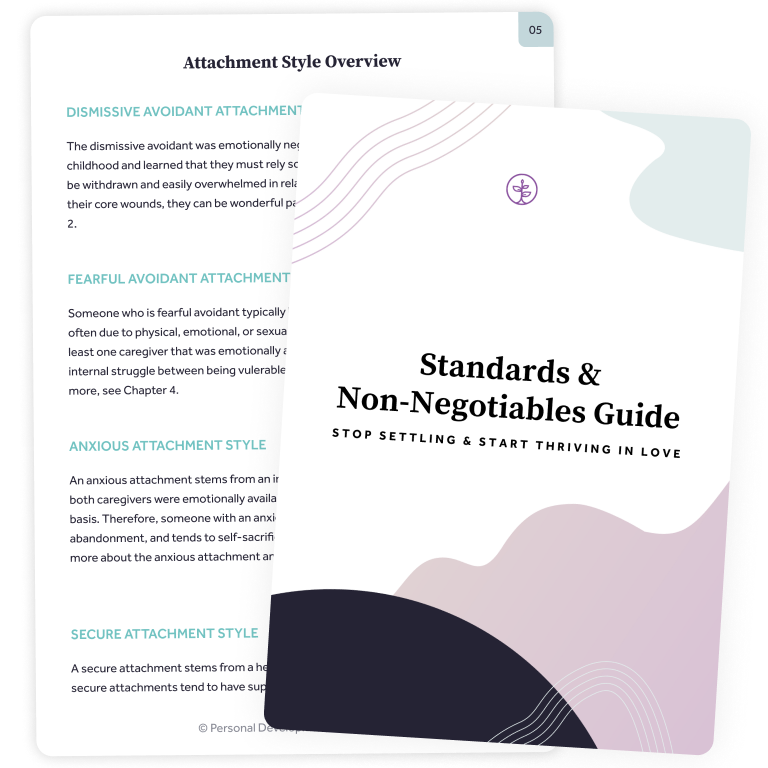
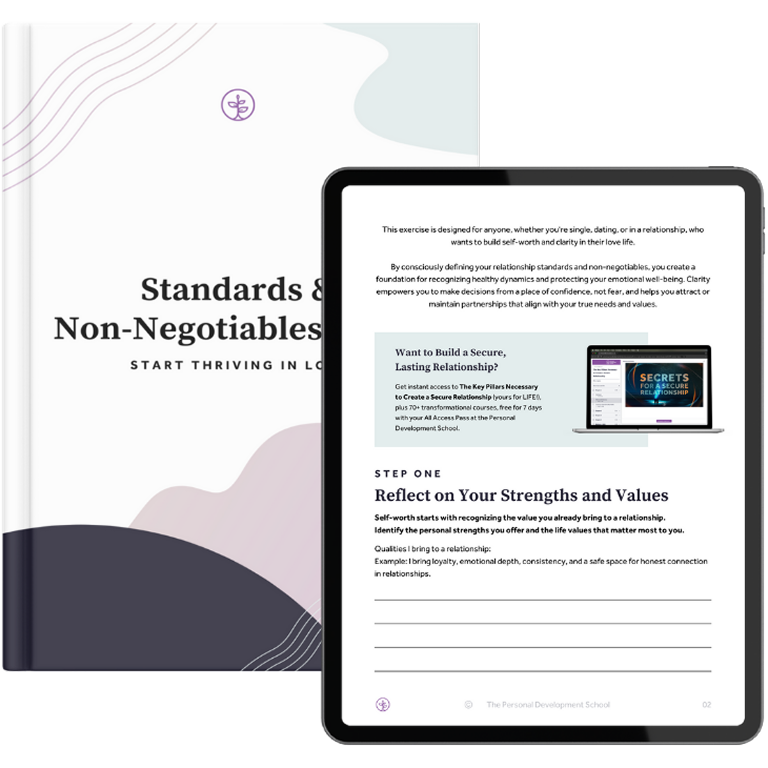
GM-1562 implemented copy feedback; changed images

diff --git a/app/(custom-layouts)/(no-header)/dating-freebie/page.tsx b/app/(custom-layouts)/(no-header)/dating-freebie/page.tsx
@@ -6,10 +6,12 @@ import { Page } from '@/components/Page'
 import { Section } from '@/components/Section'
 import { SignupForm } from '@/components/Forms/SignupForm'
 import { List } from '@/components/List'
+import { ButtonScroll } from '@/components/Button/variants/ButtonScroll'
 import { faCheckCircle } from '@awesome.me/kit-545b942488/icons/classic/regular'
 // styles
 import '../dream-life-pillars-course/style.css'
-import { ButtonScroll } from '@/components/Button/variants/ButtonScroll'
+import { Button } from '@/components/Button/Button'
+import Link from 'next/link'
 
 export const metadata: Metadata = {
   title: 'Download Your Life-Changing Dating Freebie!',
@@ -52,7 +54,7 @@ export default function DatingFreebiePage() {
           </div>
 
           <div className="text-left lg:col-span-2">
-            <h2>Hurry! Enter Your Details to Get Your FREE Standards & Non-Negotiables Guide!</h2>
+            <h2>Enter Your Details to Get Your FREE Standards & Non-Negotiables Guide!</h2>
 
             <p>
               <strong>
@@ -88,12 +90,19 @@ export default function DatingFreebiePage() {
         </p>
 
         <h2 className="mb-4">
-          Defining Your Standards Will Protect You & Attract Authentic Relationships
+          Defining Your Standards That Will Protect You & Attract Authentic Relationships
         </h2>
       </Section>
 
       <Section classNameInner="grid gap-8 lg:grid-cols-2">
-        <div>Image</div>
+        <div>
+          <Image
+            alt="A mockup of the dating freebie with the cover shown on a mobile screen and a section about reflecting your strength shown on a tablet screen"
+            src="/images/DatingFreebie/dating-freebie-mockup-2.png"
+            width={882}
+            height={882}
+          />
+        </div>
 
         <div className="text-left">
           <h2 className="mb-4">
@@ -158,12 +167,14 @@ export default function DatingFreebiePage() {
             icon={faCheckCircle}
             listItems={[
               'Get instant access to 70+ expert-led courses and weekly live webinars.',
-              'Keep the Key Pillars for a Secure Relationship Course for LIFE—yours to use anytime!',
-              'Join a supportive community focused on healthy love, emotional growth, and lasting transformation!',
+              'Keep the Key Pillars for a Secure Relationship Course for LIFE—yours to use anytime.',
+              'Join a supportive community focused on healthy love, emotional growth, and lasting transformation.',
             ]}
           />
 
-          <ButtonScroll target="#freebie-form" label="EXPLORE MORE HERE" />
+          <Link href="/dream-life-pillars-course">
+            <Button label="EXPLORE MORE HERE" />
+          </Link>
         </div>
 
         <div className="lg:col-span-4">
@@ -198,7 +209,7 @@ export default function DatingFreebiePage() {
         />
 
         <div className="bg-white relative shadow-xl z-10 p-6 rounded-20 xs:p-10">
-          <h2 className="mb-4">Get the #1 Guide to Transform Your Dating Life</h2>
+          <h2 className="mb-4">Get the #1 Guide to Transform Your Love Life</h2>
 
           <p className="mb-4">
             The first step to better relationships? Knowing your standards. Grab the free guide now!

diff --git a/app/(custom-layouts)/(no-header)/dream-life-pillars-course/page.tsx b/app/(custom-layouts)/(no-header)/dream-life-pillars-course/page.tsx
@@ -31,8 +31,10 @@ export default function DreamLifeFreeCoursePage() {
 
   return (
     <Page page_name="Dreamlife Pillars Course Page" className="relative">
-      <section className="bg-purple-dark">
-        <div className="p-4">
+      <section className="text-center bg-purple-dark">
+        <h2 className="text-white pt-4">Limited Time Offer: $250-Valued Course &amp; FREE Trial</h2>
+
+        <div className="pb-4">
           <CountdownTimer date={new Date(`2025-05-17T23:59:59-04:00`)} theme="dark" />
         </div>
       </section>
@@ -100,7 +102,7 @@ export default function DreamLifeFreeCoursePage() {
               listItems={[
                 'Uncover how past conditioning affects your present behavior and replace these self-sabotaging cycles with secure, respectful ones.',
                 'Learn to handle conflict resolution and express your feelings clearly to talk through the hard stuff with grace and confidence.',
-                'Articulate your non-negotiables, recognize compatibility faster, and attract partners who meet your values, future, and desires.',
+                'Articulate your non-negotiables, recognize compatibility faster, and attract partners who meet your values and future desires.',
                 'Cultivate emotional self-awareness, self-trust, and a stronger inner compass—so you stop losing yourself in others.',
                 "Turn everyday moments into opportunities for bonding and being emotionally present, whether you're dating or in a relationship.",
                 'Protect your peace while staying emotionally open—so you can build relationships based on mutual respect.',
@@ -270,7 +272,7 @@ export default function DreamLifeFreeCoursePage() {
         paymentOptionsConfigKey="dreamLifePillarsCourse"
         communityBullets={[
           'Discover the Key Pillars the create strong, healthy relationships that are built on authenticity and honesty',
-          'Apply the tools from our course to experience real transformative results within 7 days!',
+          'Apply the tools from our course to experience real transformative results within 7 days',
           'Understand what you need and deserve in your relationship to experience true joy and fulfillment',
           'Use our proven framework to create deeper connections, heal wounds, and grow together with your loved one',
         ]}
@@ -312,7 +314,7 @@ const STEPS_TO_PURCHASE = [
     icon: faSquare2,
     step: 'STEP TWO',
     title: 'Dive Into the Pillars Course (Yours to Keep!)',
-    copy: 'Discover the patterns, fears, and blocks that have been holding you back in your relationship. You’ll uncover the root causes of relationship challenges and start reprogramming your mind for connection, trust, and emotional safety. This course is yours forever.',
+    copy: 'Discover the patterns, fears, and blocks that have been holding you back in your love life. You’ll uncover the root causes of your dating or relationship challenges and start reprogramming your mind for connection, trust, and emotional safety. This course is yours forever.',
     image: '/images/course-pillars-to-secure-relationships.jpg',
   },
   {

diff --git a/components/PaymentOptions.tsx b/components/PaymentOptions.tsx
@@ -150,7 +150,7 @@ const allConfigs = {
     ctaLabel: 'UPDATE TO YOUR FREE TRIAL',
     checkoutUrl: EExternalRoutes.THINKIFIC_CHECKOUT_JUNE_2025_PROMO_TRIAL,
     disclaimer:
-      'Disclaimer: When you join now, you’ll sign up for our All-Access Pass Membership. At the end of the trial, you’ll automatically become a member of the $67.00/month plan. Plus, even if you don’t stay with us after 7 days, you still get to keep and access the Key Pillars for a Secure Relationship Course for life.',
+      '*When you join now, you’ll sign up for our All-Access Pass Membership. At the end of the trial, you’ll automatically become a member of the $67.00/month plan. Plus, even if you don’t stay with us after 7 days, you still get to keep and access the Key Pillars for a Secure Relationship Course for life.',
   },
 } satisfies Record<string, TConfig>
 
